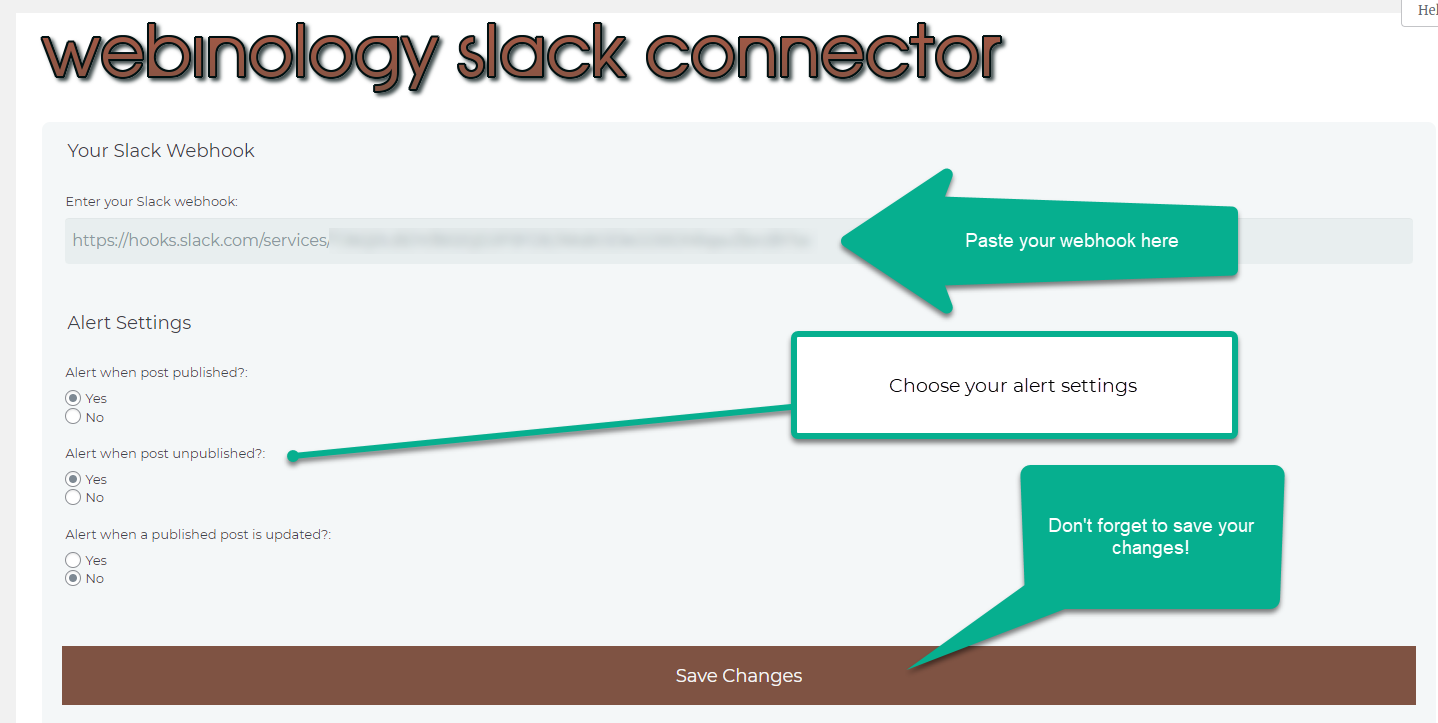
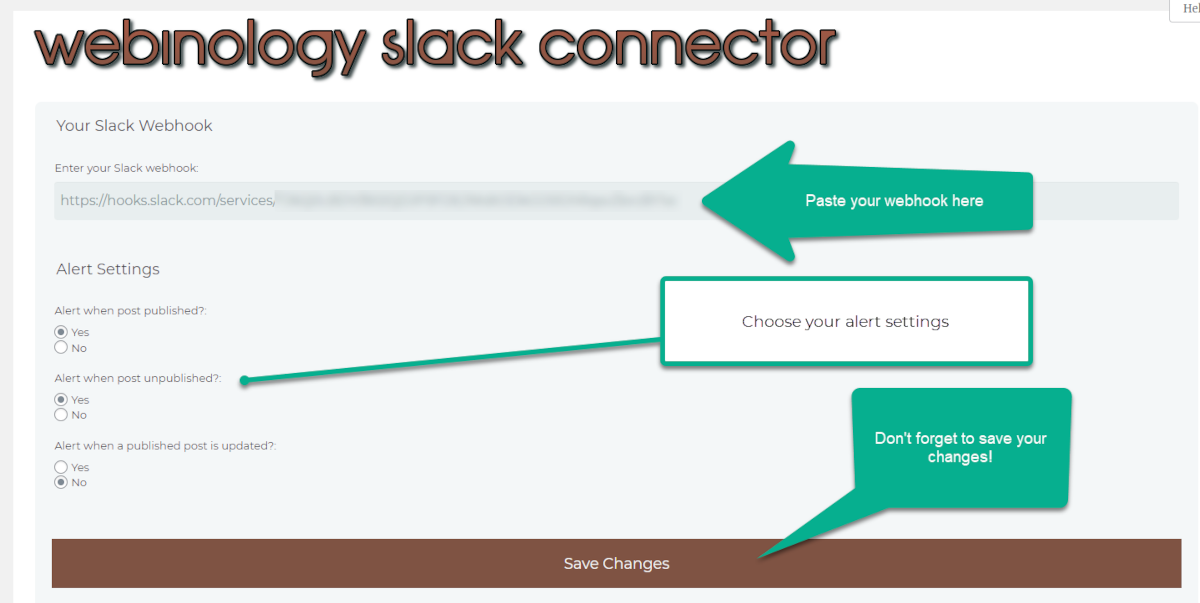
Documentation updates and new function for notification of plugin/theme updates.

diff --git a/admin/class-webinology-slack-connector-admin.php b/admin/class-webinology-slack-connector-admin.php
@@ -54,6 +54,7 @@ class Webinology_Slack_Connector_Admin {
             'webn_slack_alert_on_unpublish' => 'no',
             'webn_slack_alert_on_post_update' => 'no',
             'webn_slack_alert_on_new_comment' => 'no',
+            'webn_slack_alert_on_available_updates' => 'no',
         );
 
     /**
@@ -154,6 +155,37 @@ class Webinology_Slack_Connector_Admin {
      */
     public function webn_slack_initialization() {
 
+        if ( ! wp_next_scheduled( 'webn_slack_cron_hook' ) ) {
+            wp_schedule_event( time(), 'six_hours', 'webn_slack_cron_hook' );
+        }
+
+    }
+
+    public function webn_slack_cron_schedules($schedules) {
+        $schedules['six_hours'] = array(
+            'interval' => 21600,
+            'display'  => esc_html__( 'Every Six Hours' ), );
+
+        return $schedules;
+    }
+
+    public function webn_slack_cron_executor() {
+        if ($this->plugin_options['webn_slack_alert_on_available_updates'] == 'yes') {
+            $updates = get_site_transient( 'update_plugins' );
+
+            if ($updates->response) {
+                foreach ($updates->response as $response) {
+                    // check for transient
+                    $have_we_notified = null;
+                    $transient_name = 'webn_slack_' . $response->slug;
+                    $have_we_notified = get_transient( $transient_name );
+                    if (!$have_we_notified) {
+                        $result = $this->webn_slack_updates_available($response->slug);
+                        set_transient( $transient_name, true, 86400 );
+                    }
+                }
+            }
+        }
     }
 
     /**
@@ -179,7 +211,7 @@ class Webinology_Slack_Connector_Admin {
             return;
         }
 
-
+        $result = null;
 
         if (($this->plugin_options['webn_slack_alert_on_published'] == 'yes') || ($this->plugin_options['webn_slack_alert_on_unpublish'] == 'yes'))  {
             $author = get_user_by('ID', $post->post_author);
@@ -198,6 +230,8 @@ class Webinology_Slack_Connector_Admin {
                 $result = $this->communicator->generic_curl($update_text);
             }
         }
+
+        return result;
 
     }
 
@@ -225,6 +259,8 @@ class Webinology_Slack_Connector_Admin {
             return;
         }
 
+        $result = null;
+
         if ($this->plugin_options['webn_slack_alert_on_post_update'] == 'yes') {
             $author = wp_get_current_user()->user_login;//   get_user_by('ID', $post_after->post_author);
             $site_name = get_bloginfo('name');
@@ -235,10 +271,19 @@ class Webinology_Slack_Connector_Admin {
             $result = $this->communicator->generic_curl($update_text);
         }
 
+        return result;
     }
 
+    /**
+     * @param int $comment_ID
+     * @param int $comment_approved
+     * @param array $commentdata
+     * @return void
+     */
     public function webn_slack_new_comment(int $comment_ID, int $comment_approved, array $commentdata) {
         $this->logger->debug('New comment hook fired.');
+
+        $result = null;
 
         if ($this->plugin_options['webn_slack_alert_on_new_comment'] == 'yes') {
             $commenter = $commentdata['comment_author'];
@@ -250,8 +295,19 @@ class Webinology_Slack_Connector_Admin {
             $result = $this->communicator->generic_curl($update_text);
 
         }
+
+        return $result;
     }
 
+    private function webn_slack_updates_available(string $slug) {
+        $this->logger->debug('Update available for ' . $slug);
+
+        if ($this->plugin_options['webn_slack_alert_on_available_updates'] == 'yes') {
+            $site_name = get_bloginfo('name');
+            $update_text = 'There is an update available for "' . $slug . '" on ' . $site_name . '.';
+            $result = $this->communicator->generic_curl($update_text);
+        }
+    }
 
     /**
      * Main Menu Page

diff --git a/admin/partials/webinology-slack-connector-admin-settings0.php b/admin/partials/webinology-slack-connector-admin-settings0.php
@@ -31,7 +31,7 @@
             </fieldset>
             <fieldset class="settings-boxes"><legend>Post Settings</legend><br />
                 <!-- Alert when post is published-->
-                <label for="webn_slack_options[webn_slack_alert_on_published]">Alert when post published?:</label>
+                <label for="webn_slack_options[webn_slack_alert_on_published]">Alert when post published:</label>
 
                 <input name="webn_slack_options[webn_slack_alert_on_published]"
                        value="yes" <?php checked('yes', $webn_slack_options['webn_slack_alert_on_published'], true) ?> type="radio">Yes<br>
@@ -40,7 +40,7 @@
                 <br />
 
                 <!--Alert when post is unpublished-->
-                <label for="webn_slack_options[webn_slack_alert_on_unpublish]">Alert when post unpublished?:</label>
+                <label for="webn_slack_options[webn_slack_alert_on_unpublish]">Alert when post unpublished:</label>
 
                 <input name="webn_slack_options[webn_slack_alert_on_unpublish]"
                        value="yes" <?php checked('yes', $webn_slack_options['webn_slack_alert_on_unpublish'], true) ?> type="radio">Yes<br>
@@ -49,7 +49,7 @@
                 <br />
 
                 <!--Alert when a previously published post is updated-->
-                <label for="webn_slack_options[webn_slack_alert_on_post_update]">Alert when a published post is updated?:</label>
+                <label for="webn_slack_options[webn_slack_alert_on_post_update]">Alert when a published post is updated:</label>
 
                 <input name="webn_slack_options[webn_slack_alert_on_post_update]"
                        value="yes" <?php checked('yes', $webn_slack_options['webn_slack_alert_on_post_update'], true) ?> type="radio">Yes<br>
@@ -60,12 +60,23 @@
             </fieldset>
             <fieldset class="settings-boxes"><legend>Comment Settings</legend><br />
                 <!-- Alert when comment is added-->
-                <label for="webn_slack_options[webn_slack_alert_on_new_comment]">Alert when a comment is added?:</label>
+                <label for="webn_slack_options[webn_slack_alert_on_new_comment]">Alert when a comment is added:</label>
 
                 <input name="webn_slack_options[webn_slack_alert_on_new_comment]"
                        value="yes" <?php checked('yes', $webn_slack_options['webn_slack_alert_on_new_comment'], true) ?> type="radio">Yes<br>
                 <input name="webn_slack_options[webn_slack_alert_on_new_comment]"
                        value="no" <?php checked('no', $webn_slack_options['webn_slack_alert_on_new_comment'], true) ?> type="radio">No<br>
+                <br />
+
+            </fieldset>
+            <fieldset class="settings-boxes"><legend>Plugin/Theme Update Settings</legend><br />
+                <!-- Alert when plugin or theme has an update -->
+                <label for="webn_slack_options[webn_slack_alert_on_available_updates]">Alert when there are updates available for plugins/themes:</label>
+
+                <input name="webn_slack_options[webn_slack_alert_on_available_updates]"
+                       value="yes" <?php checked('yes', $webn_slack_options['webn_slack_alert_on_available_updates'], true) ?> type="radio">Yes<br>
+                <input name="webn_slack_options[webn_slack_alert_on_available_updates]"
+                       value="no" <?php checked('no', $webn_slack_options['webn_slack_alert_on_available_updates'], true) ?> type="radio">No<br>
                 <br />
 
             </fieldset>

diff --git a/admin/partials/webinology-slack-connector-admin-settings1.php b/admin/partials/webinology-slack-connector-admin-settings1.php
@@ -18,47 +18,60 @@
     <img src="<?= plugins_url('webinology-slack-connector') ?>/admin/img/webnSlackConnLogo.png">
     <div class="wrap">
         <h2>Getting Connected to Slack</h2>
-        <p>(instructions go here; needs to include info on how to configure Slack)</p>
+        <p>In order to use this plugin, you need:</p>
+        <ul>
+            <li>A <a href="https://slack.com/help/articles/206845317-Create-a-Slack-workspace" target="_blank">Slack workspace</a> where you have the rights to create a new app;</li>
+            <li>A <a href="https://slack.com/help/articles/360017938993-What-is-a-channel" target="_blank">channel</a> in your Slack workspace where you'd like notifications from your WordPress site to go.</li>
+        </ul>
+        <p>If the above conditions are met, you can create an app in Slack that will serve as the connector between this plugin and your Slack workspace.</p>
+        <p>The instructions below should walk you through the process. Don't be intimidated; it looks like a lot, but we just tried to give adequate details. There are really very few steps.</p>
+        <h3>Step Zero</h3>
+        <p>Some text</p>
+        <img src="<?= plugins_url('webinology-slack-connector') ?>/admin/img/SlackCreateAppStep0a.png">
+        <p>Some more text</p>
+        <img src="<?= plugins_url('webinology-slack-connector') ?>/admin/img/SlackCreateAppStep0b.png">
+        <p>Some more text</p>
+        <br /><hr /><br />
         <h3>Step One</h3>
         <p>Some text</p>
         <img src="<?= plugins_url('webinology-slack-connector') ?>/admin/img/SlackCreateAppStep01.png">
         <p>Some more text</p>
-        <br /><br />
+        <br /><hr /><br />
         <h3>Step Two</h3>
         <p>Some text</p>
         <img src="<?= plugins_url('webinology-slack-connector') ?>/admin/img/SlackCreateAppStep02.png">
         <p>Some more text</p>
-        <br /><br />
+        <br /><hr /><br />
         <h3>Step Three</h3>
         <p>Some text</p>
         <img src="<?= plugins_url('webinology-slack-connector') ?>/admin/img/SlackCreateAppStep03.png">
         <p>Some more text</p>
-        <br /><br />
+        <br /><hr /><br />
         <h3>Step Four</h3>
         <p>Some text</p>
         <img src="<?= plugins_url('webinology-slack-connector') ?>/admin/img/SlackCreateAppStep04.png">
         <p>Some more text</p>
-        <br /><br />
+        <br /><hr /><br />
         <h3>Step Five</h3>
         <p>Some text</p>
         <img src="<?= plugins_url('webinology-slack-connector') ?>/admin/img/SlackCreateAppStep05.png">
         <p>Some more text</p>
-        <br /><br />
+        <br /><hr /><br />
         <h3>Step Six</h3>
         <p>Some text</p>
         <img src="<?= plugins_url('webinology-slack-connector') ?>/admin/img/SlackCreateAppStep06.png">
         <p>Some more text</p>
-        <br /><br />
+        <br /><hr /><br />
         <h3>Step Seven</h3>
         <p>Some text</p>
         <img src="<?= plugins_url('webinology-slack-connector') ?>/admin/img/SlackCreateAppStep07.png">
         <p>Some more text</p>
-        <br /><br />
+        <br /><hr /><br />
         <h3>Step Eight</h3>
         <p>Some text</p>
         <img src="<?= plugins_url('webinology-slack-connector') ?>/admin/img/SlackCreateAppStep08.png">
         <p>Some more text</p>
-        <br /><br />
+        <br /><hr /><br />
         <h3>Step Nine</h3>
         <p>Some text</p>
         <img src="<?= plugins_url('webinology-slack-connector') ?>/admin/img/SlackCreateAppStep09.png">

diff --git a/includes/class-webinology-slack-connector.php b/includes/class-webinology-slack-connector.php
@@ -84,7 +84,7 @@ class Webinology_Slack_Connector {
 		$this->plugin_name = 'webinology-slack-connector';
 
         $this->logger = new Logger('WEBN-SLACK-CONNECTOR');
-        $this->logger->pushHandler(new StreamHandler(PLUGIN_ROOT_PATH . 'webn_slack_connector.log', Logger::DEBUG));
+        $this->logger->pushHandler(new StreamHandler(PLUGIN_ROOT_PATH . 'webn_slack_connector.log', Logger::INFO));
 
 		$this->load_dependencies();
 		$this->set_locale();
@@ -182,6 +182,9 @@ class Webinology_Slack_Connector {
             $this->loader->add_action( 'post_updated', $plugin_admin, 'webn_slack_post_updates', 10, 3 );
             $this->loader->add_action( 'comment_post', $plugin_admin, 'webn_slack_new_comment', 10 ,3 );
         }
+
+        $this->loader->add_filter('cron_schedules', $plugin_admin, 'webn_slack_cron_schedules');
+        $this->loader->add_action( 'webn_slack_cron_hook', $plugin_admin,'webn_slack_cron_executor');
 
 	}
 

diff --git a/webinology-slack-connector.php b/webinology-slack-connector.php
@@ -16,7 +16,7 @@
  * Plugin Name:       Webinology Slack Connector
  * Plugin URI:        https://webinology.io
  * Description:       Get notifications in Slack when things change on your WordPress website.
- * Version:           1.3.0
+ * Version:           1.5.0
  * Author:            KMD Enterprises, LLC
  * Author URI:        https://kmde.us
  * License:           GPL-2.0+
@@ -39,7 +39,7 @@ define( 'PLUGIN_ROOT_PATH', plugin_dir_path( __FILE__ ));
  * Start at version 1.0.0 and use SemVer - https://semver.org
  * Rename this for your plugin and update it as you release new versions.
  */
-const WEBINOLOGY_SLACK_CONNECTOR_VERSION = '1.3.0';
+const WEBINOLOGY_SLACK_CONNECTOR_VERSION = '1.5.0';
 
 /**
  * The code that runs during plugin activation.

diff --git a/includes/class-webinology-slack-connector-deactivator.php b/includes/class-webinology-slack-connector-deactivator.php
@@ -31,6 +31,9 @@ class Webinology_Slack_Connector_Deactivator {
 	 */
 	public static function deactivate() {
         delete_option('webn_slack_options');
+
+        $timestamp = wp_next_scheduled( 'webn_slack_cron_hook' );
+        wp_unschedule_event( $timestamp, 'webn_slack_cron_hook' );
 	}
 
 }

diff --git a/README.md b/README.md
@@ -1,9 +1,11 @@
 # Webinology Slack Connector
-![Product Status](https://img.shields.io/badge/Status%3A-Beta-yellow) ![Product Version](https://img.shields.io/badge/Version%3A-1.3.0-informational)
+![Product Status](https://img.shields.io/badge/Status%3A-Beta-yellow) ![Product Version](https://img.shields.io/badge/Version%3A-1.5.0-informational)
 
 This plugin sends alerts to Slack based on selected WordPress events.
 
 ## Change Log
+* 1.5.0 - Plugin/theme update now uses wp-cron.
+* 1.4.0 - Added notification for available plugin/theme updates.
 * 1.3.0 - Added notification for new comments.
 * 1.2.0 - Significant refactoring.
 * 1.1.0 - Added logging and new feature for alerting on post updates.
